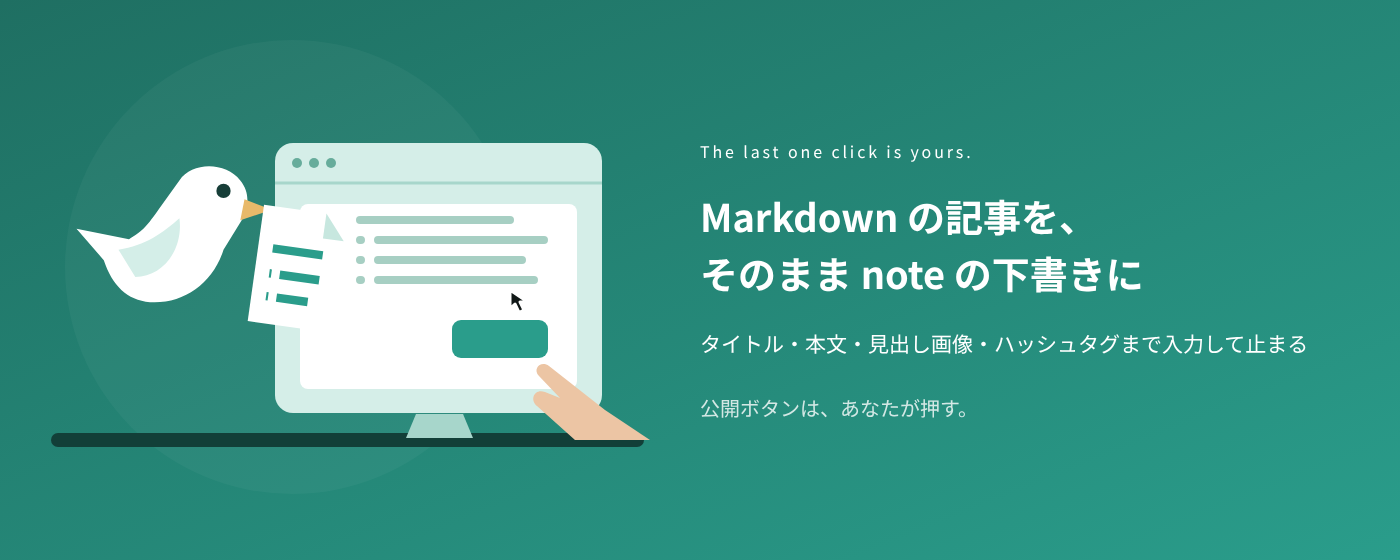
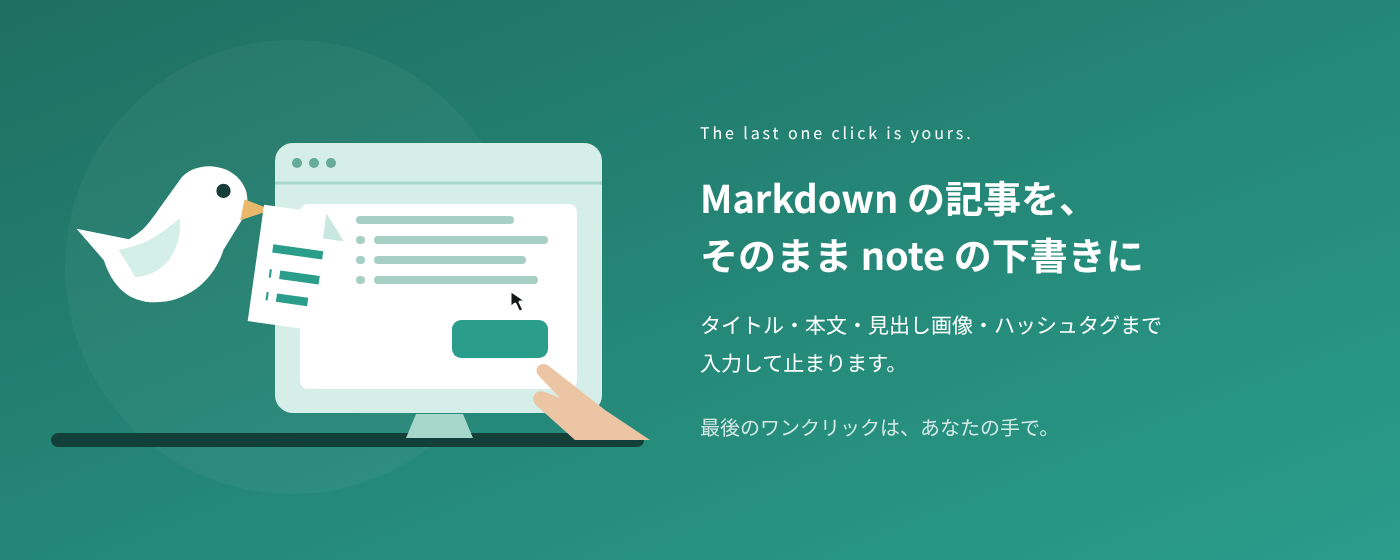
store: ストアの画像の文言を「最後のワンクリックは、あなたの手で。」と「…入力して止まります。」に変え、マーキーとスクリーンショット 2 を作り直す
Claude-Session: https://claude.ai/code/session_013Cqe6jx28ndsKaAWJiX6c6

diff --git a/extension/store/ASSETS.md b/extension/store/ASSETS.md
@@ -4,7 +4,7 @@
 - `promo-small.svg`: 440×280 の文字なし素材。鳩を従来比約15%拡大し、紙と合わせて左1/3の上下中央に配置。紙はくちばし側に置き、体と重ねない。右2/3は文言用の余白。
 - `marquee.svg`: 1400×560 の文字なし素材。ブラウザ内は見出し1本と箇条書き3本。小さな手は右下から入り、ボタンは全体を見せる。カーソルはボタン上方に間隔を空けて置く。右半分は文言用の余白。
 - `promo-small.png` / `marquee.png`: 今回指定された掲載文を重ねた完成画像。SVG に文字は含めず、文言は `screenshots.mjs` で管理する。
-- `screenshot-1.png` 〜 `screenshot-5.png`: ストアのスクリーンショット(1280×800、アルファなしの PNG、最大 5 枚)。Shazam のストア掲載のように「大きな見出し + 画面」で魅力を伝える。1: ポップアップ(入力例つき)、2: 公開ボタンは、あなたが押す(マーキーの素材を背景なしで使い、本物のバナーを重ねる)、3: md ファイルと見出し画像を、ドラッグ＆ドロップするだけ(ドロップ中のポップアップ)、4: 手でやらなくていいこと、5 つ、5: 触らないもの、3 つ。note の画面そのものは撮れないので、拡張の実際の部品と文字なしの素材で組む。
+- `screenshot-1.png` 〜 `screenshot-5.png`: ストアのスクリーンショット(1280×800、アルファなしの PNG、最大 5 枚)。Shazam のストア掲載のように「大きな見出し + 画面」で魅力を伝える。1: ポップアップ(入力例つき)、2: 最後のワンクリックは、あなたの手で(マーキーの素材を背景なしで使い、本物のバナーを重ねる)、3: md ファイルと見出し画像を、ドラッグ＆ドロップするだけ(ドロップ中のポップアップ)、4: 手でやらなくていいこと、5 つ、5: 触らないもの、3 つ。note の画面そのものは撮れないので、拡張の実際の部品と文字なしの素材で組む。
 
 3素材の鳩は同じパスを使用する。背景のグラデーションは従来どおり。小さなプロモタイルの3行目は不透明度0.9で描画する。
 
